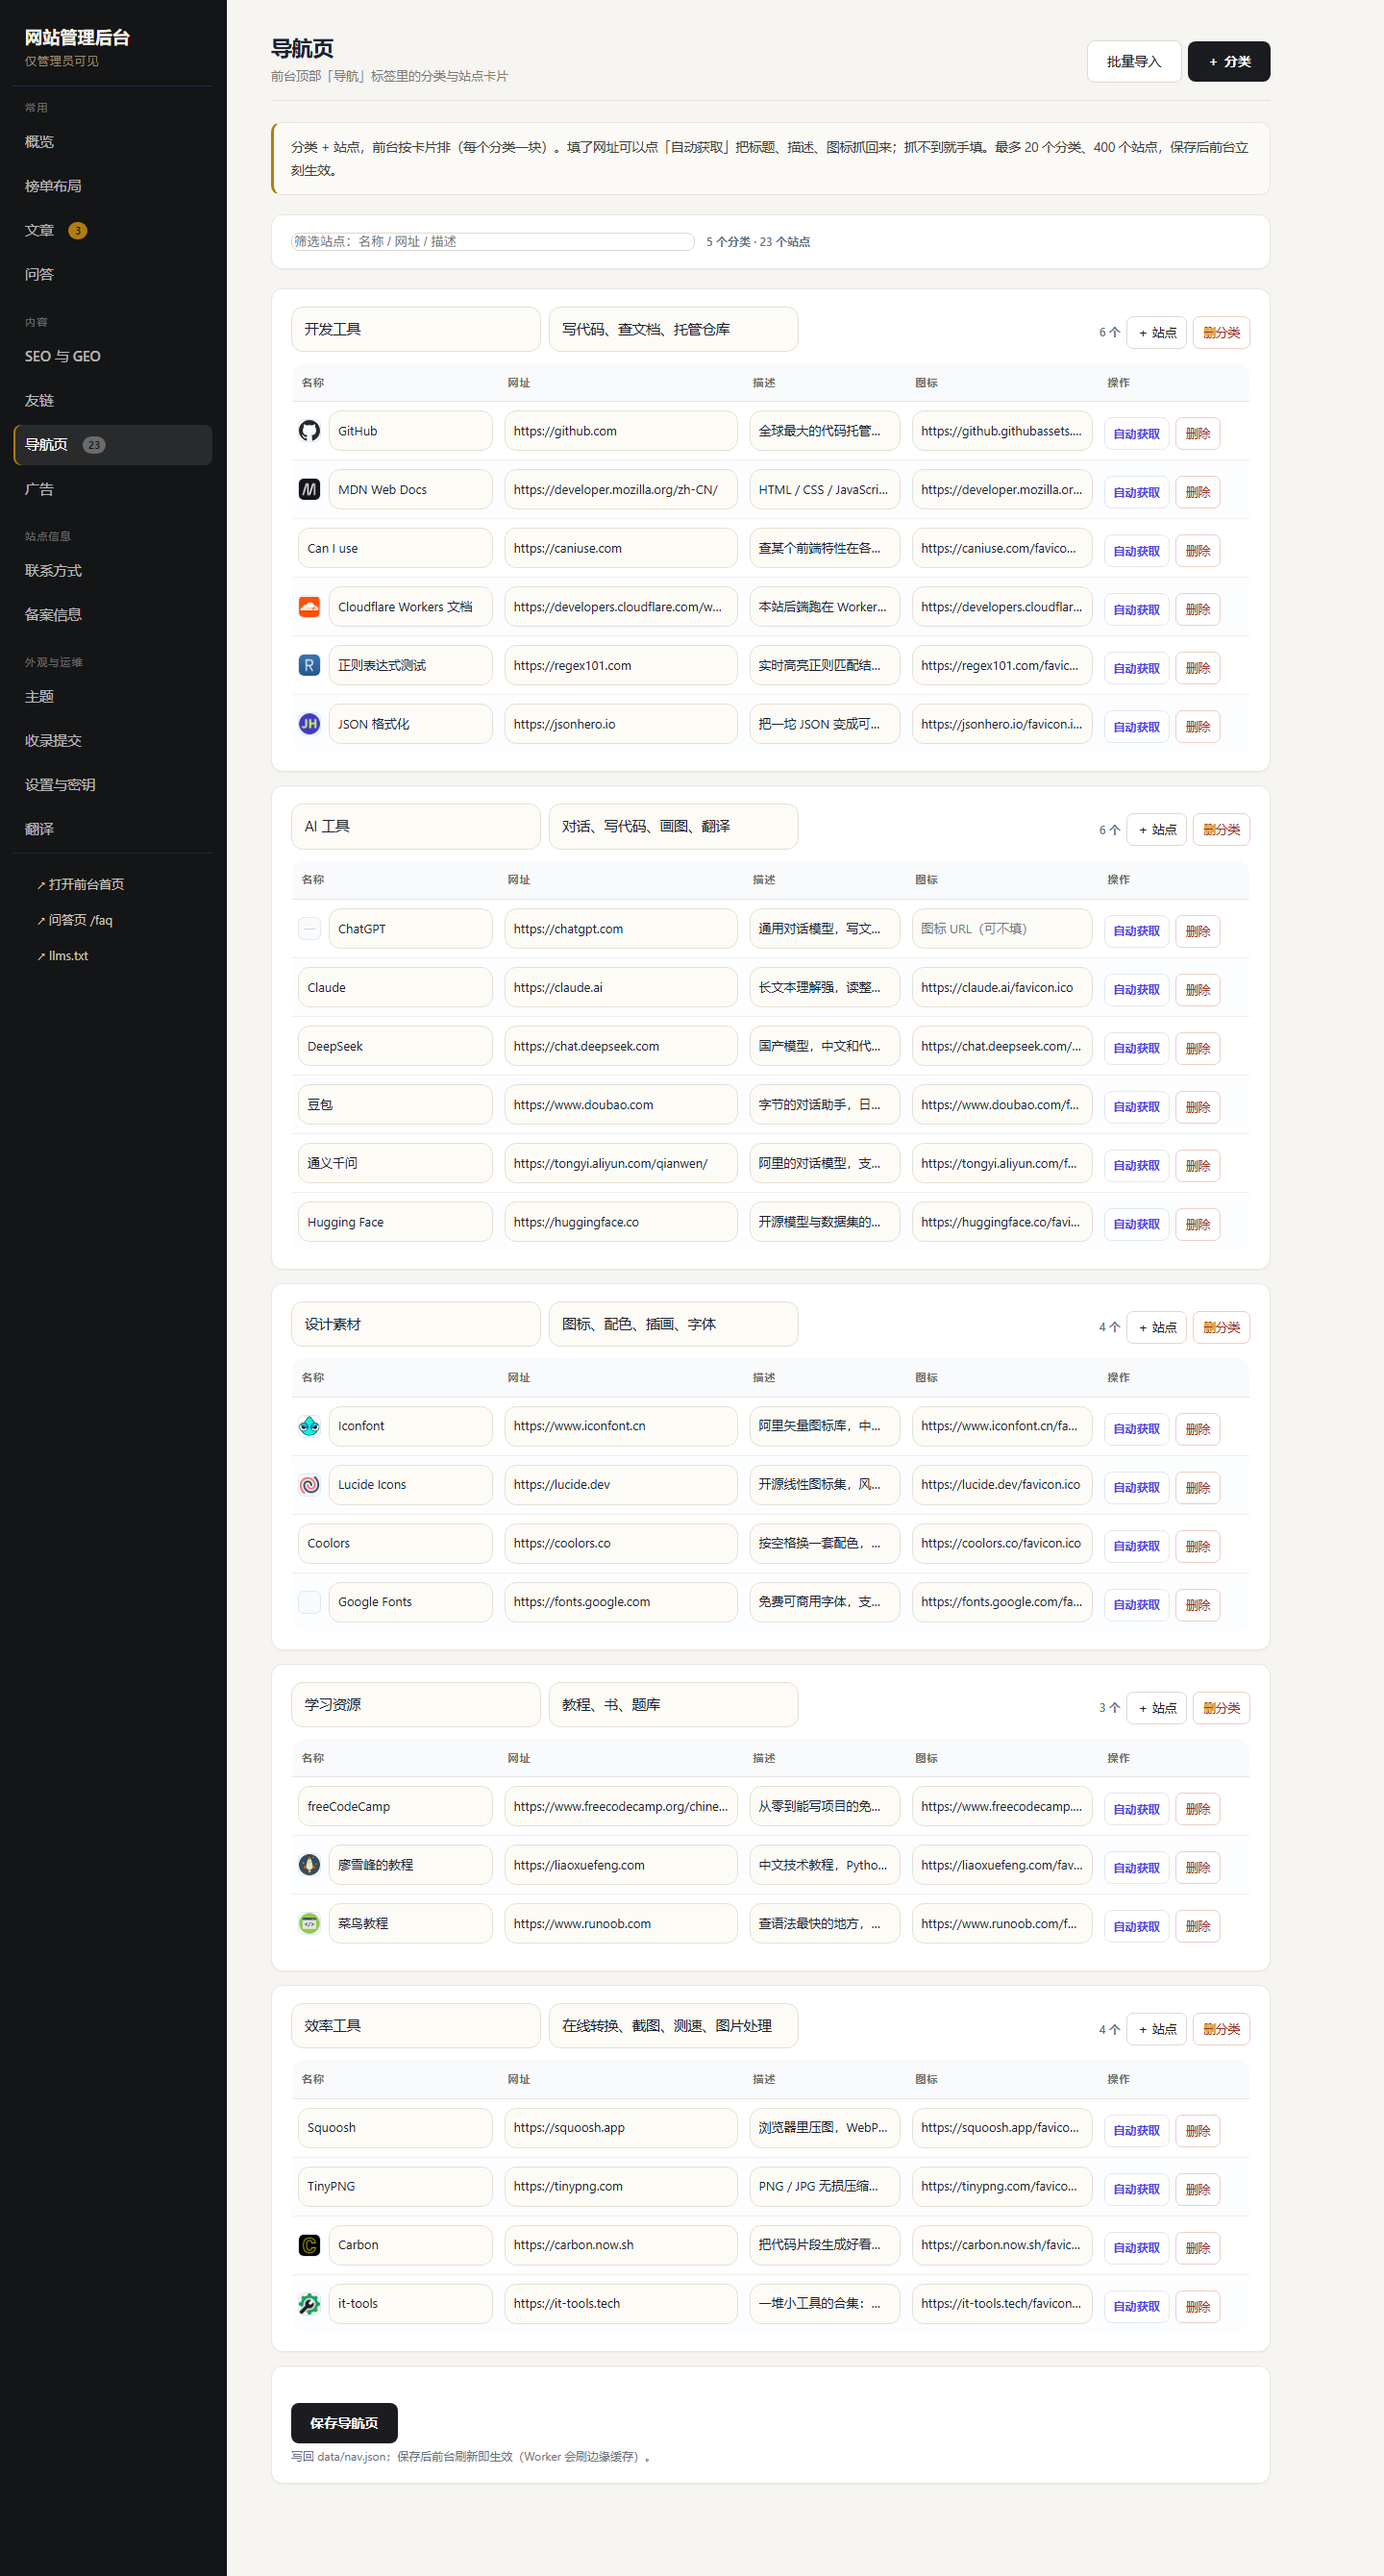
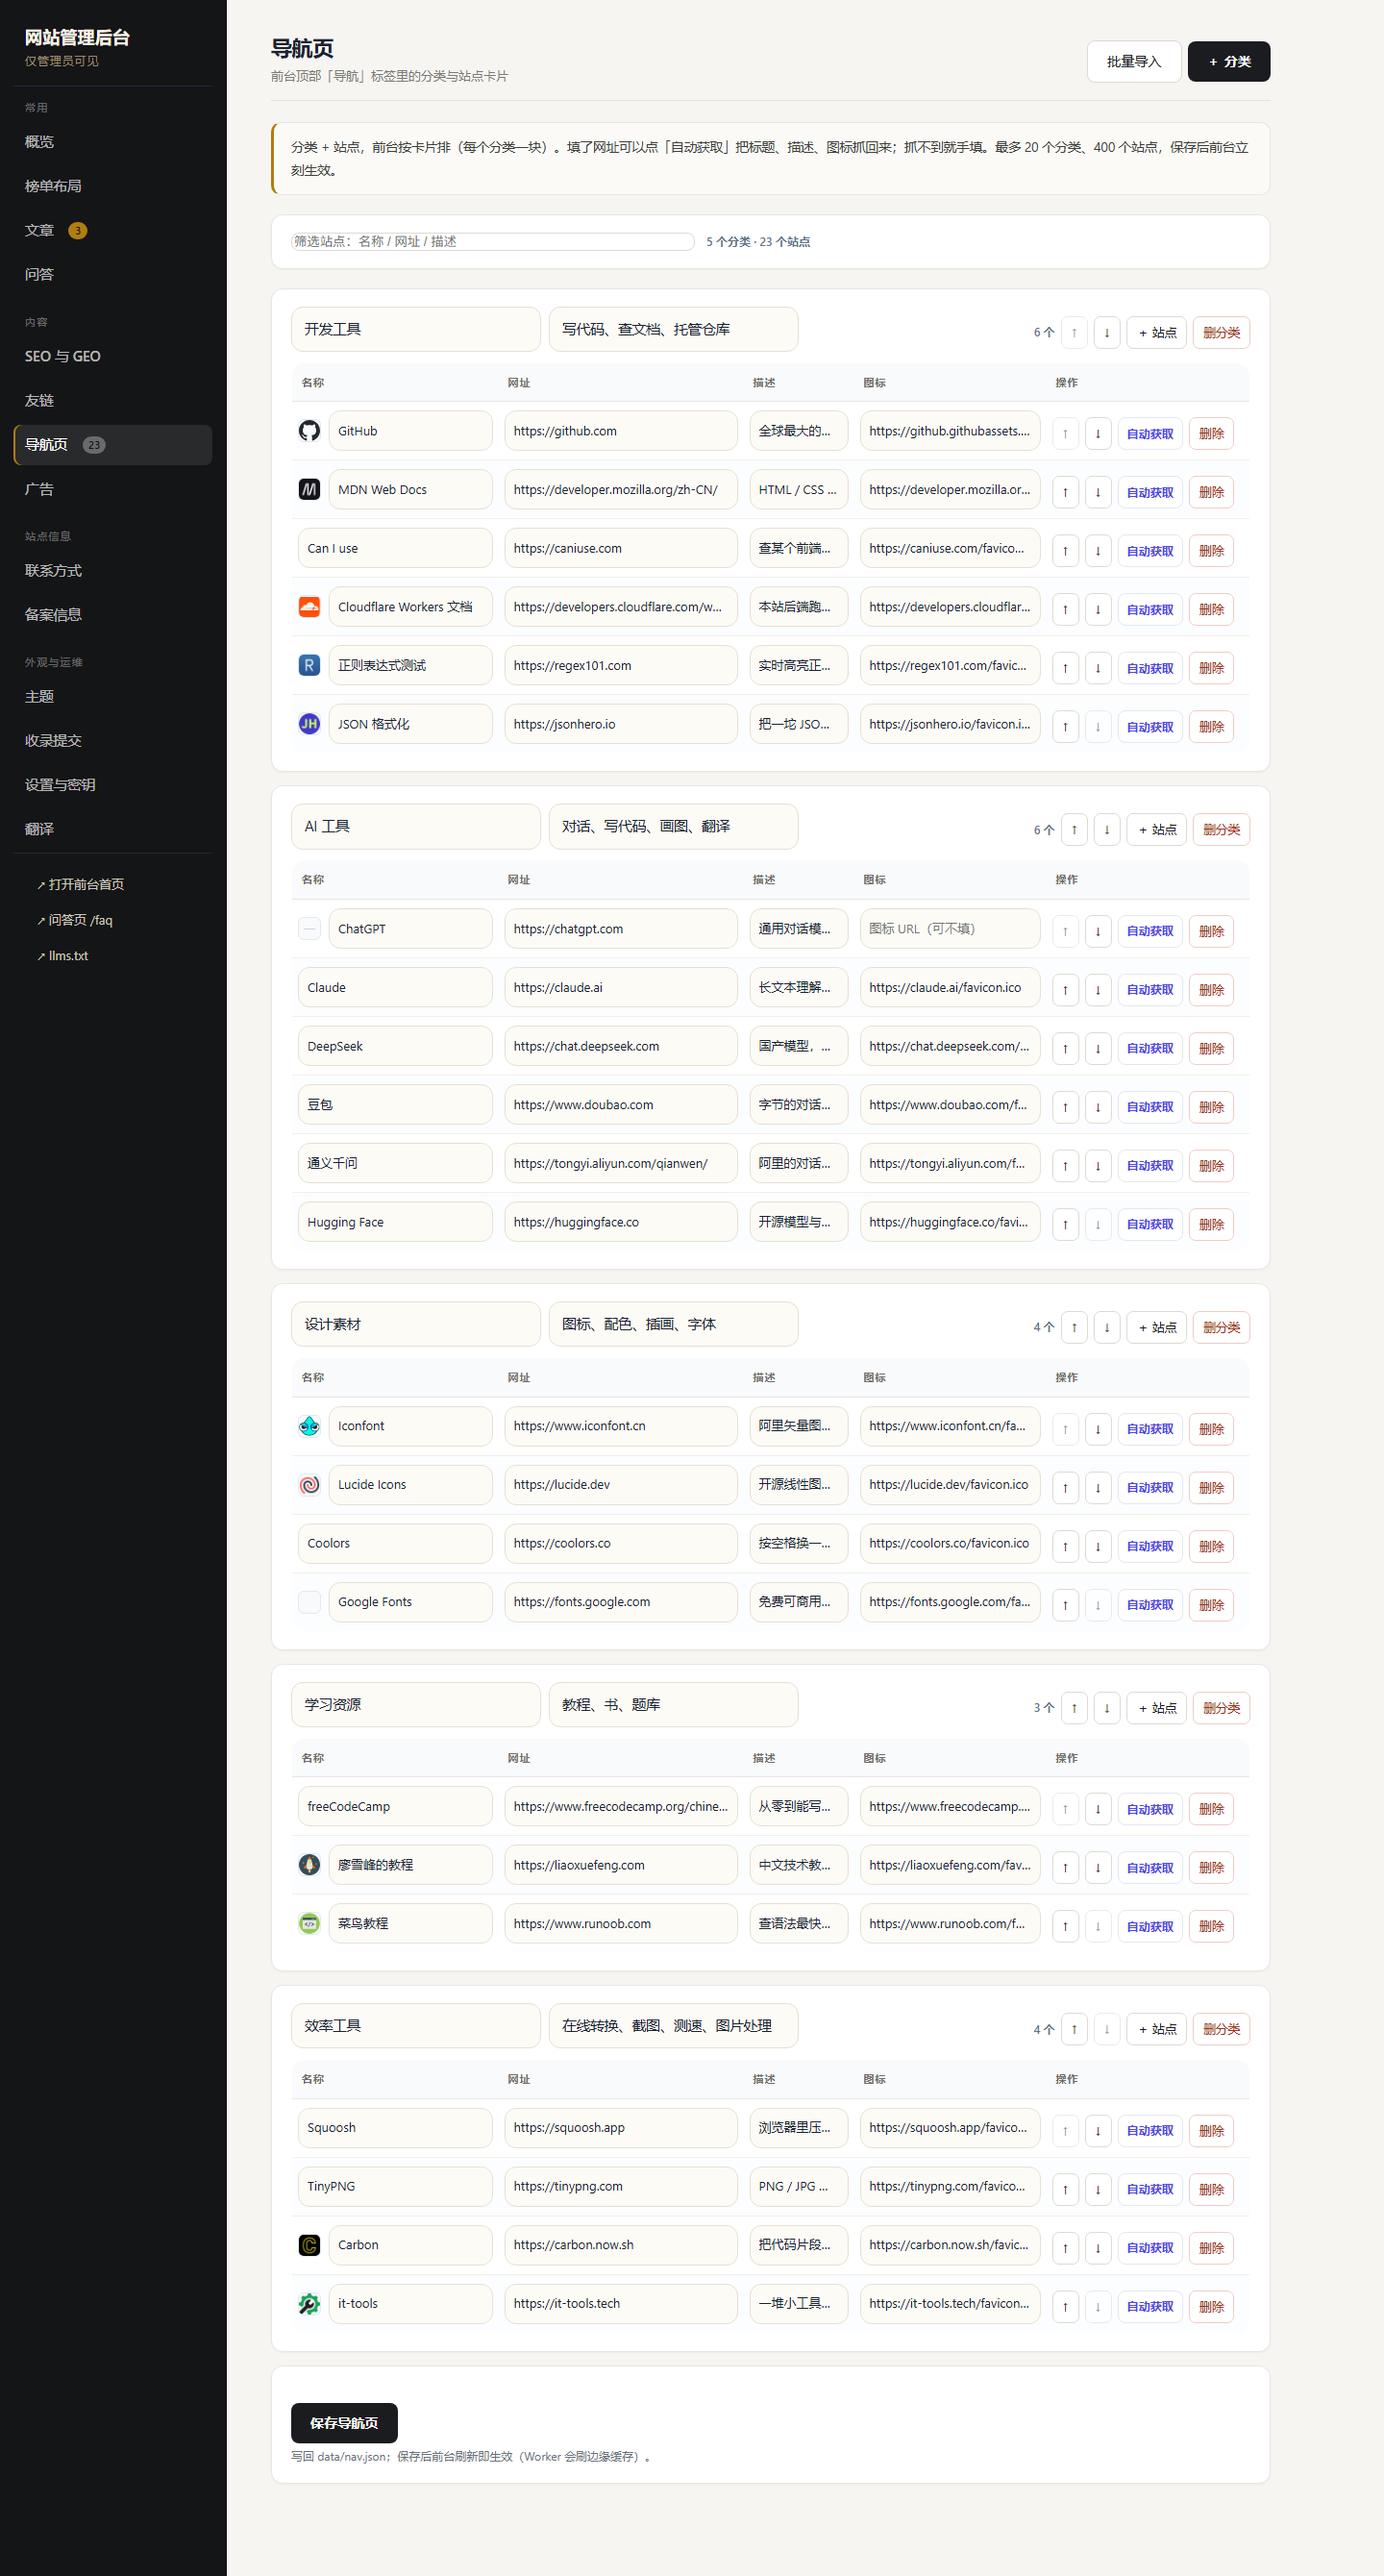
feat: 后台导航页支持分类与站点上下移动（v114）+ 死逻辑扫描器 check-dead-handlers

diff --git a/worker.js b/worker.js
@@ -1614,7 +1614,7 @@ async function injectFaqLd(env, html) {
 
 // 静态资源版本：HTML 里的 /js/*.js 都会被加上 ?v=<这里>，于是能给浏览器一年 immutable；
 // 改了前端就把它 +1（不然用户浏览器会抱着一周的旧 bundle，界面上去点了没反应）
-const ASSET_V = 'v113';
+const ASSET_V = 'v114';
 
 function emptyNav() {
   return { updatedAt: '', groups: [] };
@@ -5491,6 +5491,8 @@ tr:hover td{background:#fcfbf8}
       '<td><input type="text" data-f="desc" value="' + navEsc(it.desc || '') + '" placeholder="一句话描述"></td>' +
       '<td><input type="url" data-f="icon" value="' + icon + '" placeholder="图标 URL（可不填）"></td>' +
       '<td class="cell-act"><div class="row-actions">' +
+      '<button type="button" class="ghost small" data-sup="1" title="上移"' + (ii === 0 ? ' disabled' : '') + '>↑</button>' +
+      '<button type="button" class="ghost small" data-sdn="1" title="下移"' + (ii === (((navState.groups[gi] || {}).items || []).length - 1) ? ' disabled' : '') + '>↓</button>' +
       '<button type="button" class="ghost small" data-ifetch="1">自动获取</button>' +
       '<button type="button" class="ghost small danger" data-idel="1">删除</button></div></td>' +
       '</tr>';
@@ -5518,10 +5520,12 @@ tr:hover td{background:#fcfbf8}
         '<input type="text" data-gf="name" data-g="' + gi + '" value="' + navEsc(g.name || '') + '" placeholder="分类名">' +
         '<input type="text" data-gf="desc" data-g="' + gi + '" value="' + navEsc(g.desc || '') + '" placeholder="分类说明（可空）">' +
         '</div><div class="row-actions"><span class="nav-cnt">' + items.length + ' 个</span>' +
+        '<button type="button" class="ghost small" data-gup="' + gi + '" title="分类上移"' + (gi === 0 ? ' disabled' : '') + '>↑</button>' +
+        '<button type="button" class="ghost small" data-gdn="' + gi + '" title="分类下移"' + (gi === gs.length - 1 ? ' disabled' : '') + '>↓</button>' +
         '<button type="button" class="ghost small" data-gadd="' + gi + '">＋ 站点</button>' +
         '<button type="button" class="ghost small danger" data-gdel="' + gi + '">删分类</button></div></div>' +
         (shown.length
-          ? '<table class="nav-table"><thead><tr><th style="width:215px">名称</th><th style="width:255px">网址</th><th>描述</th><th style="width:200px">图标</th><th style="width:158px">操作</th></tr></thead><tbody>' + rows + '</tbody></table>'
+          ? '<table class="nav-table"><thead><tr><th style="width:215px">名称</th><th style="width:255px">网址</th><th>描述</th><th style="width:200px">图标</th><th style="width:212px">操作</th></tr></thead><tbody>' + rows + '</tbody></table>'
           : '<p class="empty">' + (q ? '这个分类里没有匹配的站点。' : '这个分类还没有站点。') + '</p>') +
         '</div>';
     }).join('');
@@ -5628,11 +5632,35 @@ tr:hover td{background:#fcfbf8}
       });
       return;
     }
+    var gup = el.getAttribute('data-gup');
+    var gdn = el.getAttribute('data-gdn');
+    if (gup != null || gdn != null) {
+      var gfrom = parseInt(gup != null ? gup : gdn, 10);
+      var gto = gup != null ? gfrom - 1 : gfrom + 1;
+      if (gto >= 0 && gto < (navState.groups || []).length) {
+        var gswap = navState.groups[gfrom];
+        navState.groups[gfrom] = navState.groups[gto];
+        navState.groups[gto] = gswap;
+        renderNavAdmin();
+      }
+      return;
+    }
     var tr = el.closest ? el.closest('tr') : null;
     if (!tr) return;
     var g = parseInt(tr.getAttribute('data-g'), 10);
     var i = parseInt(tr.getAttribute('data-i'), 10);
     if (!navState.groups[g] || !navState.groups[g].items[i]) return;
+    if (el.hasAttribute('data-sup') || el.hasAttribute('data-sdn')) {
+      var arr = navState.groups[g].items;
+      var sto = el.hasAttribute('data-sup') ? i - 1 : i + 1;
+      if (sto >= 0 && sto < arr.length) {
+        var swap = arr[i];
+        arr[i] = arr[sto];
+        arr[sto] = swap;
+        renderNavAdmin();
+      }
+      return;
+    }
     if (el.hasAttribute('data-idel')) {
       navState.groups[g].items.splice(i, 1);
       renderNavAdmin();

diff --git a/sw.js b/sw.js
@@ -1,5 +1,5 @@
 /* Service Worker：缓存页面外壳（HTML/JS/图标），让离线也能打开；GitHub API 不缓存，由页面自己的 localStorage 管理 */
-const CACHE = 'ghrank-shell-v113';
+const CACHE = 'ghrank-shell-v114';
 const SHELL = ['./', 'index.html', 'js/bundle.js', 'js/md.js', 'manifest.json', 'icon.svg'];
 // 只预缓存 meta（约 2KB）。榜单数据按 range 分文件、由页面按需加载，不再在安装时白下几�?KB
 const DATA = 'data/repos-meta.js';

diff --git a/docs/优化建议.md b/docs/优化建议.md
@@ -1829,3 +1829,53 @@ var up = e.target.closest('[data-qaup]'), dn = e.target.closest('[data-qadn]');
 **截图**
 
 `docs/shots/admin-qa.png`（1440×2739，每行右侧 `↑ ↓ 删除`，首尾自动禁用）
+
+## 88. 第六十二批：后台导航页的排序（分类 ↑↓ / 站点 ↑↓）+ 死逻辑扫描器
+
+### 88.1 为什么做
+
+后台「导航页」原来只能「＋ 分类」「＋ 站点」「删分类」「删除」，**顺序只能靠删掉重建**：23 个站点、5 个分类，想把某个站点从末尾挪到第一组，得手抄一遍网址。这一批补上真正的排序能力，并把上一批「问答 ↑↓ 有事件没按钮」的教训做成常驻门禁。
+
+### 88.2 改了什么（`worker.js`，5 处）
+
+| 位置 | 改动 |
+| --- | --- |
+| `navRowHtml()` | 「自动获取」前加 `data-sup` / `data-sdn`（↑ ↓）；组内第一条的上移、最后一条的下移自动 `disabled`，判断用 `((navState.groups[gi] \|\| {}).items \|\| []).length - 1` |
+| `renderNavAdmin()` 分组卡头 | 「＋ 站点」前加 `data-gup` / `data-gdn`（分类 ↑ ↓），第一个分类上移、最后一个分类下移 `disabled`（`gi === gs.length - 1`） |
+| 导航点击处理（分组） | 在 `var tr = el.closest('tr')` **之前**拦截：`navState.groups[gfrom]` 与 `[gto]` 交换 → `renderNavAdmin()` |
+| 导航点击处理（站点） | 在 `data-idel` 分支之前拦截：同组内交换 `items[i]` 与 `items[sto]` → `renderNavAdmin()` |
+| 导航表操作列 | `width:158px` → `212px`（四颗按钮：↑ ↓ 自动获取 删除） |
+
+排序都只改内存里的 `navState`，点「保存导航页」才落盘 —— 和问答、友链一致；不保存退出就等于放弃。
+
+### 88.3 门禁
+
+新增 `scripts/check-nav-order.mjs`（CDP，11 项全绿）：
+
+```
+node scripts/check-nav-order.mjs
+线上导航分类：5 个，站点合计 23 个
+== 1. 按钮都在 ==     每个分类/站点都有 ↑↓，首尾 disabled
+== 2. 分类换位 ==     第一个分类下移换位、再上移复原
+== 3. 组内站点换位 == 第二条上移后与前一条换位
+== 4. 不保存，重进 == 分类顺序 / 站点顺序都回到线上数据，分类数量没变
+```
+
+`check-worker.mjs` §12 加 3 条静态断言（后台 HTML 里有 `data-gup=`/`data-sdn=`、操作列 `width:212px`）；`check-live.mjs` 加 1 条线上断言（`后台导航页有分类/站点上下移动`）→ 68 → **69 项**。
+
+### 88.4 死逻辑扫描器 `scripts/check-dead-handlers.mjs`
+
+上一批修的「问答 ↑↓ 有事件监听但 `qaRow()` 从不渲染按钮」是典型的**死逻辑**：代码看起来都在，用户点了没反应，门禁也全绿。于是写了一个静态扫描器：
+
+```js
+// 读取点：closest('[data-x]') / matches('[data-x]') / getAttribute('data-x')
+// 产出点：整份 worker.js 里出现 data-x= 或 setAttribute('data-x'
+```
+
+跑一遍：**读取 34 个 data-\* 属性，全部有产出 ✓**。以后凡是加「事件监听 + 动态按钮」的交互，跑它一次就能确认没有只监听不渲染的半拉子。
+
+### 88.5 坑
+
+1. **锚点不唯一 → 补丁整份不写**：`var tr = el.closest ? el.closest('tr') : null;` 在 `worker.js` 里出现两次，第一次跑补丁直接报 `nav-group-move-handler 命中 2`。补丁脚本采用「所有 op 先全部校验命中数，再统一写入」，所以文件一个字都没动 —— 这是它该有的行为；修法是把锚点往上扩到 `askConfirm('删除分类「…」？'…)` 那段唯一上下文。
+2. **`node --check worker.js` 不校验后台内联脚本**：`ADMIN_PAGE` 是模板字符串，里面的 JS 语法错误 `node --check` 看不出来，必须再跑 `node scripts/check-admin-script.mjs`（它把 `/admin` 的每个内联 `<script>` 抓下来单独 `node --check`）。
+3. **门禁要能自己登录后台**：`check-nav-order.mjs` 沿用问答门禁的登录流程（填 `#pw` → `#loginForm.requestSubmit()`），否则量到的是登录页，会得假绿灯。
